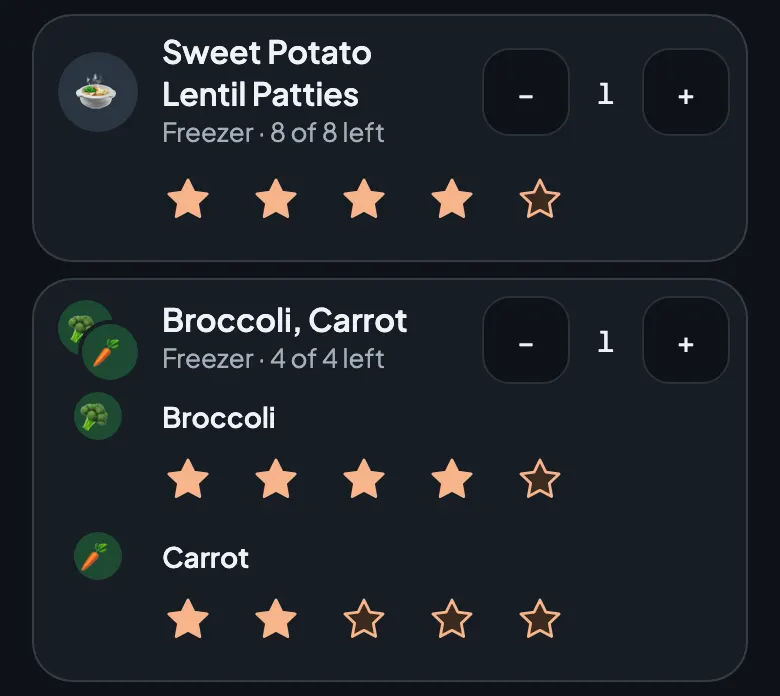
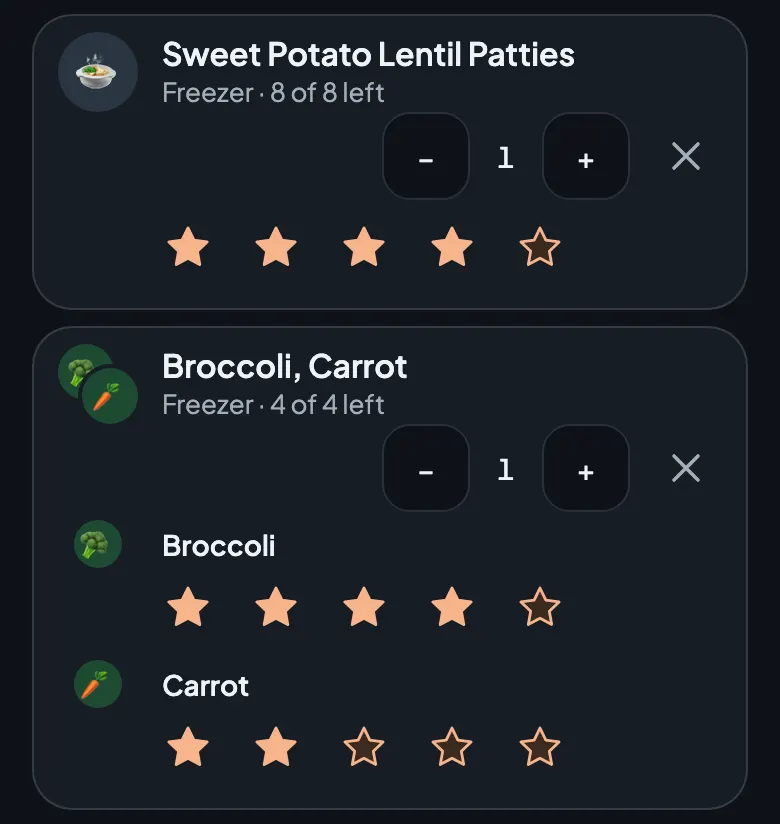
Plate: every container row gets × at the right end, like foods and recipes (ledger 980)
A container new to the plate (Plan a meal, Log meal, Serve) had no way off:
`removable` was only true for a saved meal's container or a run-out one, and
the stepper stops at 1. Now every container row ends with the same
REMOVE_BUTTON + CloseGlyph as a fresh item, after the stepper, dispatching the
reducer's existing "remove". A removed new container is simply not sent
(toPlanInput / toMealInput map the plate); a saved meal's × still puts its
servings back; a ran-out one keeps × + its flag and no stepper.

Below ~430px wide the stepper and × wrap under the title (the row's existing
flex-wrap), as a saved meal's container already did. The serve guide's
plate shots (serve-1/2/3, light + dark) are retaken the 962 way to show the
×; serve-3-stars' size pin follows.

diff --git a/client/src/features/plate/PlateItemRow.tsx b/client/src/features/plate/PlateItemRow.tsx
@@ -322,11 +322,12 @@ export function WarningGlyph() {
  * A container (CD-Serve-From-Storage): plate, title over where it is and
  * what is left, the servings stepper, then its stars: right under the title
  * when it holds one thing, else a line per food or recipe (plate, name,
- * stars), as CD-Log-Meal draws them. A container the saved meal already had
- * also gets × (chair decision, SPEC §5), which puts its servings back; one
- * served before servings were recorded gets × only. One that has run out
- * (`ranOut`, CD-Serve-Ran-Out) gets × and its flag instead of a stepper and
- * stars, and "Add to storage" for a new batch (CD-Ran-Out-Add). The stepper
+ * stars), as CD-Log-Meal draws them. Every container gets × at the right
+ * end, as foods and recipes do (ledger 980): on a saved meal it puts the
+ * servings back (chair decision, SPEC §5); one new to the plate is simply not
+ * sent. One served before servings were recorded gets × only. One that has
+ * run out (`ranOut`, CD-Serve-Ran-Out) gets × and its flag instead of a
+ * stepper and stars, and "Add to storage" for a new batch (CD-Ran-Out-Add). The stepper
  * stays between 1 and what the container can give (the reducer clamps, as
  * Serve always did); a planned one with less left than planned says so.
  * Where the title would get too narrow, the controls wrap below it, at the
@@ -338,7 +339,6 @@ export function ContainerItemRow({ entry, dispatch, disabled, planning, planWhen
   const gone = goneLine(entry, Boolean(planning));
   const planLine = planning ? planningFlagLine(entry, planWhen) : null;
   const short = planning ? null : shortOf(entry);
-  const removable = entry.savedServings !== undefined || out;
   const servings = out ? null : entry.servings;
   const { title } = entry;
   const stars = (part: ContainerPart) => (
@@ -361,49 +361,45 @@ export function ContainerItemRow({ entry, dispatch, disabled, planning, planWhen
             {entry.container ? (gone ? LOCATION_LABEL[entry.container.location] : servePartHint(entry.container)) : "From storage"}
           </p>
         </div>
-        {(servings !== null || removable) && (
-          <div className="ml-auto flex shrink-0 items-center gap-1.5">
-            {servings !== null && (
-              <div className="flex items-center gap-1.5" role="group" aria-label={`Servings: ${title}`}>
-                <button
-                  type="button"
-                  aria-label="Decrease servings"
-                  disabled={disabled}
-                  onClick={() => dispatch({ type: "servings", key, servings: servings - 1 })}
-                  className={STEP_BUTTON}
-                >
-                  −
-                </button>
-                <span
-                  aria-live="polite"
-                  className="min-w-6 text-center text-sm font-medium tabular-nums text-[var(--color-text)]"
-                >
-                  {servings}
-                </span>
-                <button
-                  type="button"
-                  aria-label="Increase servings"
-                  disabled={disabled}
-                  onClick={() => dispatch({ type: "servings", key, servings: servings + 1 })}
-                  className={STEP_BUTTON}
-                >
-                  +
-                </button>
-              </div>
-            )}
-            {removable && (
+        <div className="ml-auto flex shrink-0 items-center gap-1.5">
+          {servings !== null && (
+            <div className="flex items-center gap-1.5" role="group" aria-label={`Servings: ${title}`}>
               <button
                 type="button"
-                aria-label={`Remove ${title}`}
+                aria-label="Decrease servings"
                 disabled={disabled}
-                onClick={() => dispatch({ type: "remove", key })}
-                className={REMOVE_BUTTON}
+                onClick={() => dispatch({ type: "servings", key, servings: servings - 1 })}
+                className={STEP_BUTTON}
               >
-                <CloseGlyph />
+                −
               </button>
-            )}
-          </div>
-        )}
+              <span
+                aria-live="polite"
+                className="min-w-6 text-center text-sm font-medium tabular-nums text-[var(--color-text)]"
+              >
+                {servings}
+              </span>
+              <button
+                type="button"
+                aria-label="Increase servings"
+                disabled={disabled}
+                onClick={() => dispatch({ type: "servings", key, servings: servings + 1 })}
+                className={STEP_BUTTON}
+              >
+                +
+              </button>
+            </div>
+          )}
+          <button
+            type="button"
+            aria-label={`Remove ${title}`}
+            disabled={disabled}
+            onClick={() => dispatch({ type: "remove", key })}
+            className={REMOVE_BUTTON}
+          >
+            <CloseGlyph />
+          </button>
+        </div>
       </div>
       {short !== null && (
         <p className={RUN_OUT_LINE}>

diff --git a/client/src/features/plate/PlateItemRow.test.ts b/client/src/features/plate/PlateItemRow.test.ts
@@ -270,14 +270,17 @@ describe("a recipe deleted since the meal was logged", () => {
 });
 
 describe("a container", () => {
-  it("holding one thing: its stars right under the title, a stepper, no × on a new one (CD-Serve-From-Storage)", () => {
+  it("holding one thing: its stars right under the title, a stepper, and × (CD-Serve-From-Storage, ledger 980)", () => {
     const out = html(containerEntry(MUFFINS));
     expect(out).toContain(">Broccoli Cheese Egg Muffins</p>");
     expect(out).toContain('<p class="text-[13px] leading-[1.35] text-[var(--color-text-muted)]">Fridge · 6 of 6 left</p>');
     expect(out).toContain('<div class="mt-0.5 ml-[43px]"><div class="flex flex-wrap items-center"><div role="radiogroup" aria-label="Rating for Broccoli Cheese Egg Muffins"');
     expect(out).toContain('role="group" aria-label="Servings: Broccoli Cheese Egg Muffins"');
     expect(out).toContain('<span aria-live="polite" class="min-w-6 text-center text-sm font-medium tabular-nums text-[var(--color-text)]">1</span>');
-    expect(out).not.toContain("Remove");
+    // Ledger 980: a container new to the plate gets the same × as a food, after the stepper.
+    expect(out).toMatch(/aria-label="Increase servings".*<\/div><button type="button" aria-label="Remove Broccoli Cheese Egg Muffins" class="[^"]*h-11 w-11[^"]*"><svg/);
+    click(byLabel(tree(containerEntry(MUFFINS)), "Remove Broccoli Cheese Egg Muffins"));
+    expect(actions).toEqual([{ type: "remove", key: `storage:${MUFFINS.id}` }]);
   });
 
   it("holding several: a line per food (24px plate, name, stars) and the two-plate mark (CD-Log-Meal)", () => {
@@ -407,7 +410,12 @@ describe("planning (Plan a meal, CD-Plan-Meal)", () => {
     const empty = html(containerEntry({ ...MUFFINS, servingsLeft: 0 }), true);
     expect(empty).not.toContain("None left.");
     expect(empty).toContain('aria-label="Servings: Broccoli Cheese Egg Muffins"');
-    expect(empty).not.toContain('aria-label="Remove Broccoli Cheese Egg Muffins"');
+    // Ledger 980: a planned container comes off with ×, like a food.
+    expect(empty).toContain('aria-label="Remove Broccoli Cheese Egg Muffins"');
+    h.store.i = 0;
+    const t = expand(createElement(PlateItemRow, { entry: containerEntry(CONTAINER), dispatch, planning: true }));
+    click(byLabel(t, `Remove ${containerEntry(CONTAINER).title}`));
+    expect(actions).toEqual([{ type: "remove", key: `storage:${CONTAINER.id}` }]);
   });
 
   it("a container marked finished or discarded in Storage says the plan card's gone line, with no count (VERIFY-p4-c1 #5)", () => {

diff --git a/client/src/features/plate/plate.test.ts b/client/src/features/plate/plate.test.ts
@@ -477,6 +477,11 @@ describe("toMealInput", () => {
     expect(toMealInput(plate, FIELDS).items.map((item) => item.kind)).toEqual(["recipe", "food", "recipe", "storage"]);
   });
 
+  it("× on a container new to the plate (ledger 980): it is not sent, so nothing is taken from it", () => {
+    const plate = plateReducer(add({ items: [CONTAINER], foods: [EGG] }), { type: "remove", key: `storage:${CONTAINER.id}` });
+    expect(toMealInput(plate, FIELDS).items).toEqual([{ kind: "food", foodId: EGG.id, rating: null }]);
+  });
+
   it("a new plate: no ids; a container's servings and only its given stars; a leave-out only when there is one", () => {
     let plate = add({ items: [CONTAINER], recipes: [PASTA, PATTIES], foods: [EGG] });
     plate = plateReducer(plate, { type: "rate", key: `storage:${CONTAINER.id}`, partId: CARROT.id, rating: 2 });
@@ -679,6 +684,14 @@ describe("a planned meal as a plate (Plan a meal, SPEC §5)", () => {
       { kind: "storage", storageItemId: CONTAINER.id, servings: 2 },
     ]);
     expect(toPlanInput([])).toEqual([]);
+  });
+
+  it("× on a planned container (ledger 980): the plan is saved without it", () => {
+    const plate = plateReducer(fromPlanned(planned), { type: "remove", key: `storage:${CONTAINER.id}` });
+    expect(toPlanInput(plate)).toEqual([
+      { kind: "recipe", recipeId: PASTA.id, leftOutFoodIds: [CASHEW.id] },
+      { kind: "food", foodId: EGG.id },
+    ]);
   });
 });
 

diff --git a/client/src/features/safety/content.test.ts b/client/src/features/safety/content.test.ts
@@ -344,12 +344,13 @@ describe("dark guide screenshots", () => {
 
   // Ledger 962: the plate-page shots were retaken on new crops (light and dark
   // the same size); recipe-5-saved kept its crop, located against the old
-  // light image, for 953's calendar button.
+  // light image, for 953's calendar button. Ledger 980 retook serve-1..3
+  // (every container row now has ×, so its stepper wraps under the title).
   it("keeps the 962 retakes at their shot size", () => {
     const expected: Record<string, number[]> = {
       "meal-2-stars": [780, 478],
       "meal-3-when": [780, 1074],
-      "serve-3-stars": [780, 696],
+      "serve-3-stars": [780, 824],
       "serve-4-notes": [780, 470],
       "recipe-5-saved": [780, 1416],
     };

diff --git a/client/src/features/plate/plate.ts b/client/src/features/plate/plate.ts
@@ -84,7 +84,8 @@ export interface ContainerEntry {
    * recorded (0020): it can only be removed, never resized. */
   servings: number | null;
   /** What the saved meal took (null before 0020); absent when the container
-   * is new to the plate. A kept one shows × (chair decision, SPEC §5). */
+   * is new to the plate. Taking a kept one off (×) puts its servings back
+   * (chair decision, SPEC §5); a new one is simply not sent (ledger 980). */
   savedServings?: number | null;
   /** The container as Storage has it now, when loaded: its counts and status. */
   container?: StorageItem;
